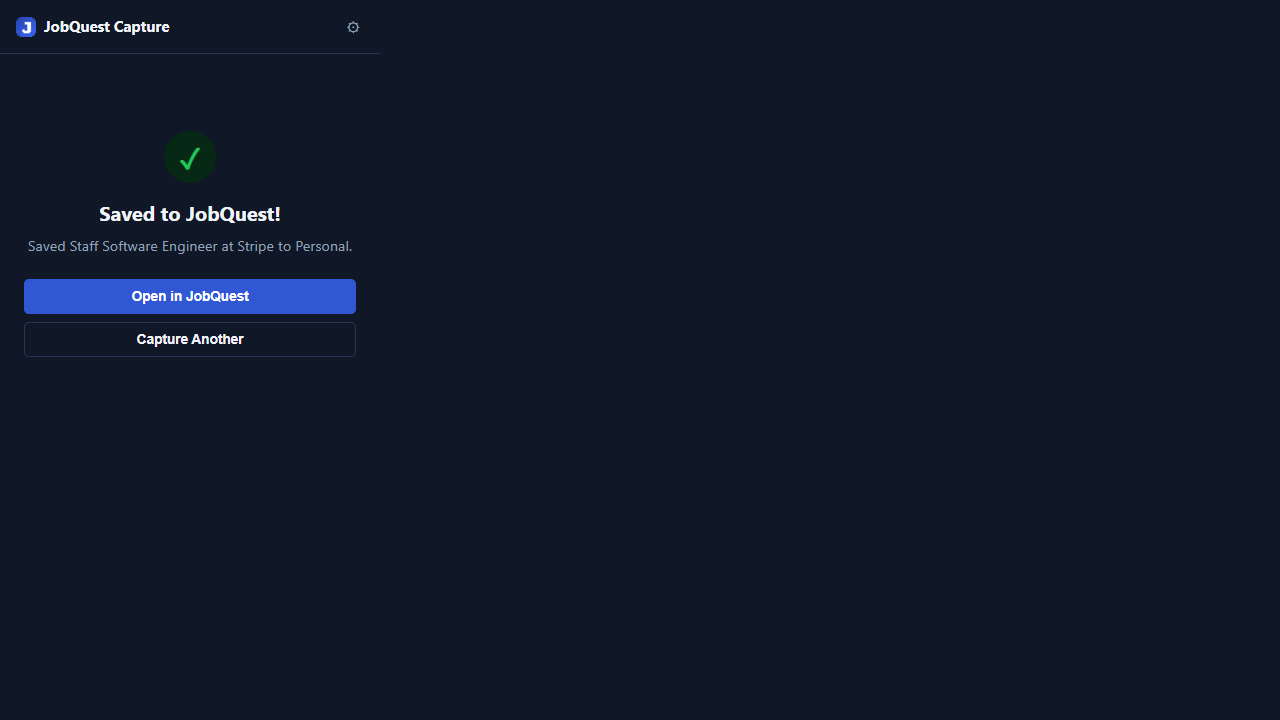
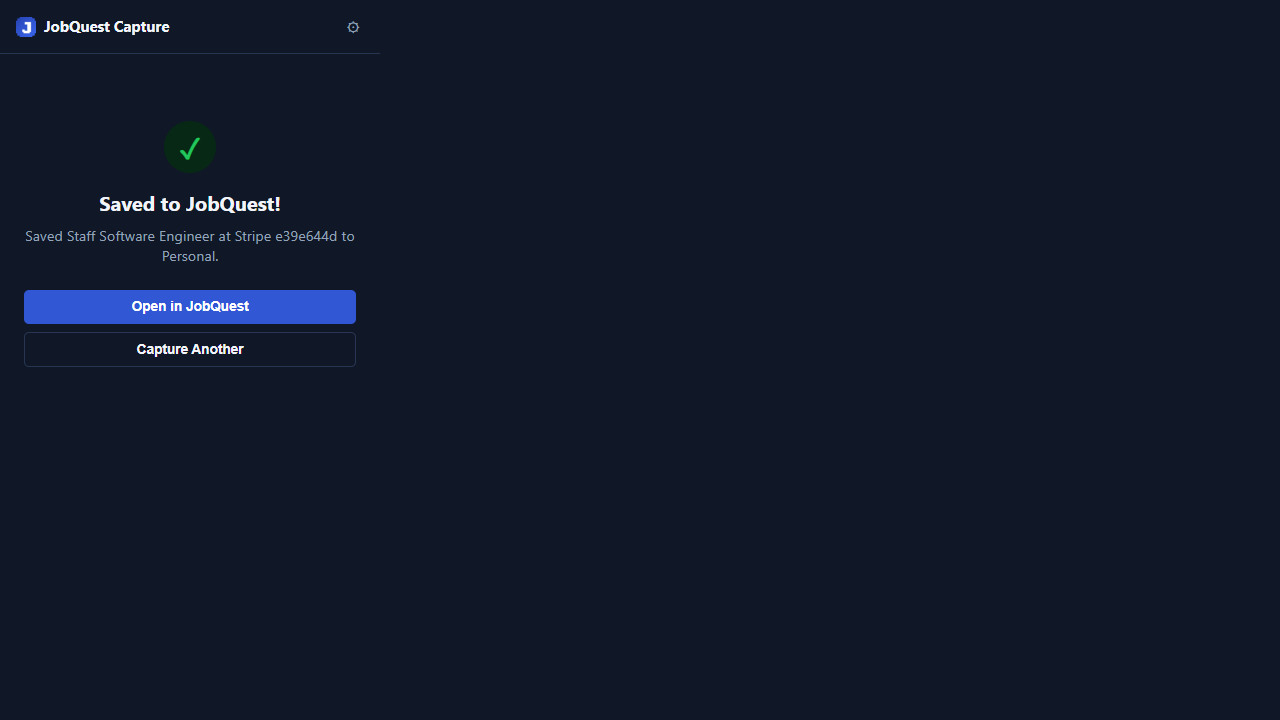
test(m11): verify hosted extension lifecycle

Changed region(s): [[0.0, 0.275, 0.2812, 0.5194], [0.125, 0.1833, 0.1562, 0.2444]]

diff --git a/e2e/m11-extension.spec.ts b/e2e/m11-extension.spec.ts
@@ -75,7 +75,11 @@ test.describe('Milestone 11 · unpacked MV3 extension', () => {
   test('setup, extraction, capture, duplicate, deep link, theme, revocation, a11y, and timings', async ({ browserName }, testInfo) => {
     expect(browserName).toBe('chromium');
     const baseURL = String(testInfo.project.use.baseURL ?? 'http://localhost:5173').replace(/\/$/, '');
+    const target = (process.env.M1B_TARGET?.trim() || (/localhost|127\.0\.0\.1/.test(baseURL) ? 'local' : 'vercel-preview'))
+      .replace(/[^a-z0-9-]/gi, '-');
     const run = randomBytes(4).toString('hex');
+    const reusedAccountRun = process.env.M11_REUSE_RUN?.trim();
+    const accountRun = reusedAccountRun || run;
     const tokenName = `M11 Chromium ${run}`;
     const jobUrl = `https://jobs.m11.test/${run}/staff-software-engineer`;
     const profilePath = testInfo.outputPath('chromium-profile');
@@ -84,6 +88,9 @@ test.describe('Milestone 11 · unpacked MV3 extension', () => {
       started_at: new Date().toISOString(),
       browser: 'playwright chromium persistent context',
       package: 'jobquest-capture-dev',
+      target,
+      base_origin: baseURL,
+      reused_account: Boolean(reusedAccountRun),
     };
     const a11y: AuditResult[] = [];
 
@@ -119,12 +126,19 @@ test.describe('Milestone 11 · unpacked MV3 extension', () => {
       const webPage = await context.newPage();
       await webPage.setViewportSize({ width: 1440, height: 900 });
       await webPage.goto(baseURL);
-      const registration = webPage.getByRole('form', { name: 'Register' });
-      await registration.getByLabel('Username (required)').fill(`m11_ext_${run}`);
-      await registration.getByLabel('Password (required)').fill(`M11-Extension-${run}-P@ss!`);
-      await registration.getByRole('button', { name: 'Create account' }).click();
-      await expect(webPage.getByTestId('recovery-codes').locator('li')).toHaveCount(10);
-      await webPage.getByRole('button', { name: 'I saved them' }).click();
+      if (reusedAccountRun) {
+        const login = webPage.getByRole('form', { name: 'Sign in' });
+        await login.getByLabel('Username').fill(`m11_ext_${accountRun}`);
+        await login.getByLabel('Password').fill(`M11-Extension-${accountRun}-P@ss!`);
+        await login.getByRole('button', { name: 'Sign in' }).click();
+      } else {
+        const registration = webPage.getByRole('form', { name: 'Register' });
+        await registration.getByLabel('Username (required)').fill(`m11_ext_${accountRun}`);
+        await registration.getByLabel('Password (required)').fill(`M11-Extension-${accountRun}-P@ss!`);
+        await registration.getByRole('button', { name: 'Create account' }).click();
+        await expect(webPage.getByTestId('recovery-codes').locator('li')).toHaveCount(10);
+        await webPage.getByRole('button', { name: 'I saved them' }).click();
+      }
       await expect(webPage.getByTestId('new-application-btn')).toBeVisible();
       await webPage.evaluate(() => { window.location.hash = '#/settings/extension'; });
       await expect(webPage.getByRole('heading', { name: 'Browser extension' })).toBeVisible();
@@ -147,7 +161,7 @@ test.describe('Milestone 11 · unpacked MV3 extension', () => {
       // Configure via the actual extension options page and verify local persistence.
       const optionsPage = await context.newPage();
       await optionsPage.goto(`${extensionOrigin}/options.html`);
-      await expect(optionsPage.locator('#instance-url')).toHaveValue(baseURL);
+      await expect(optionsPage.locator('#instance-url')).not.toHaveValue('');
       await optionsPage.locator('#instance-url').fill(baseURL);
       await optionsPage.locator('#api-token').fill(rawToken);
       await optionsPage.locator('#theme').selectOption('dark');
@@ -188,9 +202,13 @@ test.describe('Milestone 11 · unpacked MV3 extension', () => {
       });
       evidence.extraction_ms = Date.now() - extractionStarted;
       expect(extracted).toMatchObject({ company: 'Stripe', jobTitle: 'Staff Software Engineer' });
+      const expectedCompany = reusedAccountRun ? `Stripe ${run}` : 'Stripe';
+      const captureInput = reusedAccountRun
+        ? { ...(extracted as Record<string, unknown>), company: expectedCompany, externalJobId: `12345-${run}` }
+        : extracted;
       await optionsPage.evaluate(async (pendingCapture) => {
         await chrome.storage.local.set({ pendingCapture });
-      }, extracted);
+      }, captureInput);
       evidence.live_content_script_extraction = true;
 
       // X5: dark ready state with workflow loaded from the API and a NONE duplicate response.
@@ -200,11 +218,11 @@ test.describe('Milestone 11 · unpacked MV3 extension', () => {
       await expect(popup.locator('body')).toHaveAttribute('data-state', 'X5');
       await expect(popup.locator('html')).toHaveAttribute('data-theme', 'dark');
       await expect(popup.locator('#input-stage option')).not.toHaveCount(0);
-      await expect(popup.locator('#input-company')).toHaveValue('Stripe');
+      await expect(popup.locator('#input-company')).toHaveValue(expectedCompany);
       await expect(popup.locator('#input-title')).toHaveValue('Staff Software Engineer');
       evidence.popup_ready_ms = Date.now() - readyStarted;
       evidence.workflow_loaded = true;
-      const duplicateTiming = await optionsPage.evaluate(async () => {
+      const duplicateTiming = await optionsPage.evaluate(async ({ currentJobUrl, company }) => {
         const settings = await chrome.storage.local.get(['instanceUrl', 'apiToken']);
         if (typeof settings.instanceUrl !== 'string' || typeof settings.apiToken !== 'string') {
           throw new Error('Extension settings are unavailable');
@@ -214,15 +232,15 @@ test.describe('Milestone 11 · unpacked MV3 extension', () => {
           method: 'POST',
           headers: { Authorization: `Bearer ${settings.apiToken}`, 'Content-Type': 'application/json' },
           body: JSON.stringify({
-            company: 'Stripe',
+            company,
             job_title: 'Staff Software Engineer',
-            job_url: location.href,
+            job_url: currentJobUrl,
             source: 'JSON-LD',
           }),
         });
         const result = await response.json() as { match_type?: string };
         return { elapsed: performance.now() - started, matchType: result.match_type };
-      });
+      }, { currentJobUrl: jobUrl, company: expectedCompany });
       evidence.duplicate_api_ms = Math.round(duplicateTiming.elapsed);
       expect(duplicateTiming.matchType).toBe('NONE');
       a11y.push(await audit(popup, 'popup-ready-dark'));
@@ -250,7 +268,7 @@ test.describe('Milestone 11 · unpacked MV3 extension', () => {
       // Reopening with the same extracted identity produces the canonical exact duplicate state.
       await optionsPage.evaluate(async (pendingCapture) => {
         await chrome.storage.local.set({ pendingCapture });
-      }, extracted);
+      }, captureInput);
       const duplicatePopup = await context.newPage();
       const duplicateStarted = Date.now();
       await duplicatePopup.goto(`${extensionOrigin}/popup.html`);
@@ -262,13 +280,40 @@ test.describe('Milestone 11 · unpacked MV3 extension', () => {
       await shot(duplicatePopup, 'm11-popup-exact-duplicate-dark');
       await duplicatePopup.close();
 
-      // Revoke through Settings, then prove the persisted token is rejected as X2.
+      // Replace through Settings and prove the old persisted token is rejected immediately.
       await webPage.bringToFront();
-      const tokenRow = webPage.getByRole('row', { name: new RegExp(tokenName) });
-      await tokenRow.getByRole('button', { name: 'Revoke' }).click();
+      const tokenRows = webPage.locator('tbody tr').filter({ hasText: tokenName });
+      const activeTokenRow = tokenRows.filter({ hasText: 'active' });
+      await expect(activeTokenRow).toHaveCount(1);
+      await activeTokenRow.getByRole('button', { name: 'Replace' }).click();
+      const replaceDialog = webPage.getByRole('dialog', { name: new RegExp(`Replace.*${tokenName}`) });
+      await replaceDialog.getByRole('button', { name: 'Replace token' }).click();
+      const replacementDialog = webPage.getByRole('dialog', { name: 'Copy your token' });
+      const replacementToken = (await replacementDialog.locator('.extension-secret code').textContent())?.trim() ?? '';
+      expect(replacementToken).toMatch(/^jqx_dev_[A-Za-z0-9]{43}$/);
+      await replacementDialog.getByRole('button', { name: 'Done, I copied it' }).click();
+
+      const rotatedOutPopup = await context.newPage();
+      await rotatedOutPopup.goto(`${extensionOrigin}/popup.html`);
+      await expect(rotatedOutPopup.locator('body')).toHaveAttribute('data-state', 'X2');
+      await rotatedOutPopup.close();
+      evidence.rotation_enforced = true;
+
+      // Reconnect with the one-time replacement, then revoke that active token.
+      await optionsPage.bringToFront();
+      await optionsPage.locator('#api-token').fill(replacementToken);
+      try {
+        await optionsPage.getByRole('button', { name: 'Save Settings' }).click();
+        await expect(optionsPage.locator('#status-box')).toContainText('Connected. JobQuest accepted this token.');
+      } finally {
+        await optionsPage.locator('#api-token').evaluate((element: HTMLInputElement) => { element.value = ''; });
+      }
+      await webPage.bringToFront();
+      await expect(activeTokenRow).toHaveCount(1);
+      await activeTokenRow.getByRole('button', { name: 'Revoke' }).click();
       const revokeDialog = webPage.getByRole('dialog', { name: new RegExp(`Revoke.*${tokenName}`) });
       await revokeDialog.getByRole('button', { name: 'Revoke token' }).click();
-      await expect(tokenRow).toContainText('revoked');
+      await expect(activeTokenRow).toHaveCount(0);
 
       const revokedPopup = await context.newPage();
       await revokedPopup.goto(`${extensionOrigin}/popup.html`);
@@ -285,7 +330,7 @@ test.describe('Milestone 11 · unpacked MV3 extension', () => {
       evidence.a11y_blocking = blocking;
       evidence.completed_at = new Date().toISOString();
       evidence.status = blocking === 0 ? 'PASS' : 'FAIL';
-      writeFileSync(resolve(evidenceDir, `browser-local-${run}.json`), `${JSON.stringify({ evidence, a11y }, null, 2)}\n`, 'utf8');
+      writeFileSync(resolve(evidenceDir, `browser-${target}-${run}.json`), `${JSON.stringify({ evidence, a11y }, null, 2)}\n`, 'utf8');
       expect(blocking, JSON.stringify(a11y, null, 2)).toBe(0);
     } finally {
       await context.close();

diff --git a/migration-upgrade/CURRENT_AGENT_STATE.md b/migration-upgrade/CURRENT_AGENT_STATE.md
@@ -10,11 +10,11 @@ M11 - Browser Extension Migration
 
 ## Current HEAD
 
-`6784fc59bde7cc77fb74a917b1c75d8e301e0b0e`
+`3b9b3970fa579269852ab42b561a04b26d46b4fd`
 
 ## Last Pushed Commit
 
-`6784fc59bde7cc77fb74a917b1c75d8e301e0b0e` on `origin/feature/m11-browser-extension` (`feat(m11): migrate manifest v3 extension and token settings ui`). First API/security checkpoint: `717e33dcae9aa57ef26a40e7d7382761d8b66108`.
+`3b9b3970fa579269852ab42b561a04b26d46b4fd` on `origin/feature/m11-browser-extension` (`test(m11): complete extension browser verification`). First API/security checkpoint: `717e33dcae9aa57ef26a40e7d7382761d8b66108`; web/extension checkpoint: `6784fc59bde7cc77fb74a917b1c75d8e301e0b0e`.
 
 ## Development Base
 
@@ -22,7 +22,7 @@ M11 - Browser Extension Migration
 
 ## Working Tree State
 
-Both implementation slices are committed and pushed. The remaining dirty tree contains only recovery documentation and generated local integration evidence from M1B-M11 regression runs. No pre-existing user changes were discarded.
+All implementation and local browser verification work is committed and pushed. Only this post-checkpoint recovery-state update is dirty. No pre-existing user changes were discarded.
 
 ## Last Completed Step
 
@@ -35,29 +35,30 @@ Both implementation slices are committed and pushed. The remaining dirty tree co
 - Added dev/prod extension packaging source and a root extension-test command.
 - Focused web typecheck, focused API typecheck, changed-file lint, token/security unit tests, and static extension syntax/manifest checks have passed.
 - Committed and pushed the web Settings/deep-link and Manifest V3 extension slice as checkpoint `6784fc59` after adding persisted System/Light/Dark themes, complete X1-X14 mapping, and manifest/CSP/content integrity tests.
+- Committed and pushed exact-current unpacked Chromium verification, salary parsing repair, dark-mode contrast repair, final local integration/browser evidence, and six screenshots as checkpoint `3b9b3970`.
 
 ## Current Step
 
-Review and checkpoint the fully green local browser and quality gate.
+Rerun the expanded rotation/revocation browser flow locally, then prepare the final executable checkpoint and reports.
 
 ## Next Exact Step
 
-1. Review intended browser/salary/a11y source, exact-current PASS evidence, screenshots, and generated integration evidence.
-2. Commit and push the coherent browser verification checkpoint.
-3. Continue to hosted dev and Preview only after the checkpoint is pushed.
+1. Run the expanded target-aware M11 browser spec locally using the existing disposable local account.
+2. Re-run lint/typecheck/extension tests and security scans for the final test-only diff.
+3. Commit/push the final executable checkpoint, verify CI, then finalize M11 reports and recovery docs.
 
 ## Supabase State
 
-Local Supabase reset succeeds through all 15 migrations with the final safe-column grant hardening. Authenticated direct `token_hash` selection is denied and targeted M11 integration passes 7/7. Hosted dev has not been changed.
+Local Supabase reset succeeds through all 15 migrations with the final safe-column grant hardening. Hosted target was verified as `jobquest-dev` / `xpnkasclquplmrcmhsif`; dry-run showed only M11 pending, and `20261005100000_m11_extension_tokens.sql` was applied successfully. Hosted focused M11 integration passes 7/7 with verifier-column denial.
 
 ## Applied / Pending Migrations
 
 - M1-M10: previously verified locally and in hosted dev.
-- `20261005100000_m11_extension_tokens.sql`: applied successfully to local in its committed form; never applied remotely.
+- `20261005100000_m11_extension_tokens.sql`: applied successfully to local and hosted dev; migration ledger verification is pending after push.
 
 ## Vercel Preview State
 
-No M11 Preview deployment exists. Allowed target later is Preview only for team `one-piece-5779`, project `jobquest2`. Never use `--prod`.
+M11 Preview is READY: `https://jobquest2-3pxm8abn9-one-piece-5779.vercel.app`, deployment `dpl_9DiSCVyCkYAV1Et2yrzPCcXLogPi`, target `preview`, build duration 42s. Project/team: `one-piece-5779/jobquest2`. Required `EXTENSION_TOKEN_PEPPER` is a cryptographically random Secret scoped to Preview only; Production was not changed. Health is 200. Never use `--prod`.
 
 ## Last CI Run
 
@@ -82,7 +83,7 @@ Historical development CI `36252789930` on `60ec9dff` was successful. No M11 CI 
 
 ## Hosted Test State
 
-No M11 hosted database or Preview tests have run.
+Hosted dev M11 integration: PASS, 7/7. Evidence: `migration-upgrade/m11/evidence/integration-hosted-dev-9ba597.json`. Preview unpacked-extension flow including one-time token reveal, storage, workflow, extraction, capture, exact duplicate, deep link, rotation invalidation, reconnect, revocation, dark mode, and six axe contexts: PASS with 0 critical/serious findings (`browser-vercel-preview-4b974939.json`). Option B privacy/auth plus M2 shell regression: PASS, 5/5 (`e2e-browser-vercel-preview-a98515.json`).
 
 ## Extension Fixture State
 
@@ -158,4 +159,4 @@ pnpm.cmd check:extension
 
 ## Next Agent Instructions
 
-Continue M11 from pushed web/extension checkpoint `6784fc59`. The complete local gate and exact-current Chromium spec are green. Review, commit, and push the coherent browser/salary/a11y checkpoint, then proceed to hosted dev/Preview. Keep M11 unmerged.
+Continue M11 from pushed browser checkpoint `3b9b3970`. Local gate, hosted migration/integration, READY Preview health, expanded Preview extension flow, and Preview auth/privacy/shell regression are green. Rerun the expanded test locally, create the final executable checkpoint, verify CI, and finalize reports. Keep M11 unmerged.

diff --git a/migration-upgrade/m11/NEXT_AGENT_HANDOFF.md b/migration-upgrade/m11/NEXT_AGENT_HANDOFF.md
@@ -6,7 +6,7 @@ Milestone 11 - Browser Extension Migration
 
 ## Active Branch / HEAD
 
-`feature/m11-browser-extension` at pushed web/extension checkpoint `6784fc59bde7cc77fb74a917b1c75d8e301e0b0e`. First API/security checkpoint: `717e33dcae9aa57ef26a40e7d7382761d8b66108`.
+`feature/m11-browser-extension` at pushed browser verification checkpoint `3b9b3970fa579269852ab42b561a04b26d46b4fd`. First API/security checkpoint: `717e33dcae9aa57ef26a40e7d7382761d8b66108`; web/extension checkpoint: `6784fc59bde7cc77fb74a917b1c75d8e301e0b0e`.
 
 ## Completed Locally
 
@@ -24,15 +24,15 @@ Milestone 11 - Browser Extension Migration
 
 ## Current Caveat
 
-The local database reset, targeted M11 integration (7/7), and full integration regression (134/134) passed after the final safe-column grant hardening. Authenticated direct verifier-column SELECT is denied. Token display prefixes are 12 characters with four non-secret random discriminator characters.
+The local database reset, targeted M11 integration (7/7), and full integration regression (134/134) passed after the final safe-column grant hardening. Hosted `jobquest-dev` now has the M11 migration and hosted focused integration passes 7/7 (`integration-hosted-dev-9ba597.json`). Authenticated direct verifier-column SELECT is denied. Token display prefixes are 12 characters with four non-secret random discriminator characters.
 
 API PID `2596` on 8787 and web PID `52920` on 5173 are healthy and were reused. Local Supabase is running on 55321 after a clean reset through M11. The browser test deletes its temporary persistent profile after every run.
 
 ## Next Exact Action
 
-1. Review, commit, and push the coherent browser verification checkpoint; the exact-current Chromium spec and all local gate items are green (lint, typecheck, unit 116/116, integration 134/134, extension 27/27, build/package, DB lint, and 0-finding scans).
-2. Continue with hosted-dev/Preview verification only after the checkpoint is pushed.
-3. Continue with hosted-dev/Preview verification only after local is green; do not merge M11.
+1. Rerun the expanded target-aware M11 browser spec locally using `M11_REUSE_RUN=0df44867`; Preview rotation/revocation is already green.
+2. Run final static/security checks, commit/push the executable checkpoint, and verify CI.
+3. Finalize M11 reports and recovery docs; do not merge M11.
 
 ## Hard Guardrails
 
